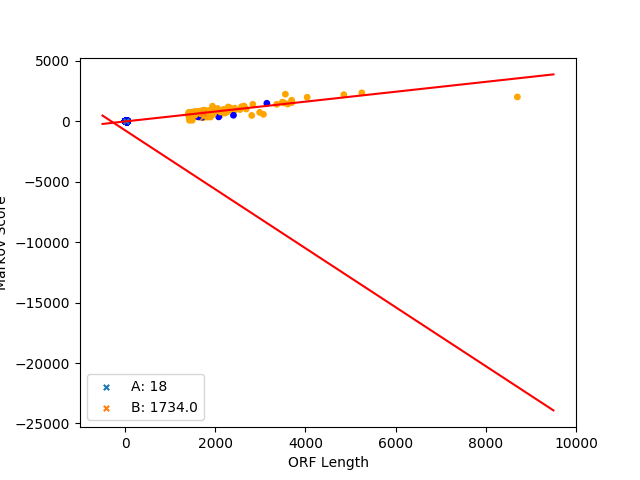
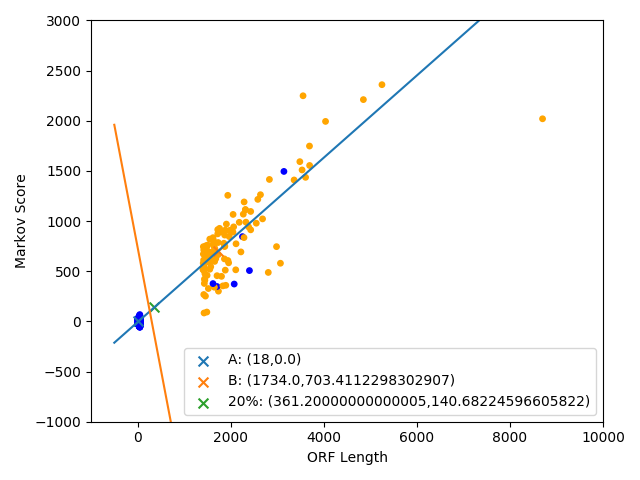
fixed flashbulb

diff --git a/hw4/src/main.py b/hw4/src/main.py
@@ -147,21 +147,23 @@ def plot_flashbulb(master_flashbulb_list, long_flashbulb_list, short_flashbulb_l
       short_df["length"]), statistics.median(short_df["score"])
 
   plt.scatter(m_short_len, m_short_score,
-           marker="x", s=15, label="A: {}".format(m_short_len, m_short_score))
+           marker="x", s=50, label="A: ({},{})".format(m_short_len, m_short_score))
   plt.scatter(m_long_len, m_long_score,
-              marker="x", s=15, label="B: {}".format(m_long_len, m_long_score))
+              marker="x", s=50, label="B: ({},{})".format(m_long_len, m_long_score))
   
   m_slope = (m_long_score - m_short_score) / (m_long_len - m_short_len)
   m_intercept = m_long_score - (m_slope * m_long_len)
 
   p_x = m_short_len + (threshold * (m_long_len - m_short_len))
   p_y = (m_slope * p_x) + m_intercept
-  p_slope = -1 / m_slope
-  p_intercept = p_y + (p_slope * p_x)
+  p_intercept = p_y - (1 / m_slope * p_x)
+
+  plt.scatter(p_x, p_y,
+              marker="x", s=50, label="20%: ({},{})".format(p_x, p_y))
 
   x = np.linspace(-500, 9500, 1000)
-  plt.plot(x, (m_slope * x) + m_intercept, 'r')
-  plt.plot(x, (p_slope * x) + p_intercept, 'r')
+  plt.plot(x, (m_slope * x) + m_intercept)
+  plt.plot(x, (-1 / m_slope * x) - p_intercept)
 
 def main():
   fasta_list = h.process_fasta(c.genome_file, c.fna_exten)
@@ -347,6 +349,8 @@ def main():
   plot_flashbulb(master_flashbulb_list, long_flashbulb_list, short_flashbulb_list, 0.20, "orange", "blue")
   plt.ylabel("Markov Score")
   plt.xlabel("ORF Length")
+  plt.xlim(-1000, 9000)
+  plt.ylim(-1000, 2500)
   plt.legend()
   plt.tight_layout()
   plt.savefig(c.results_folder + "flashbulb" + c.png_exten)
